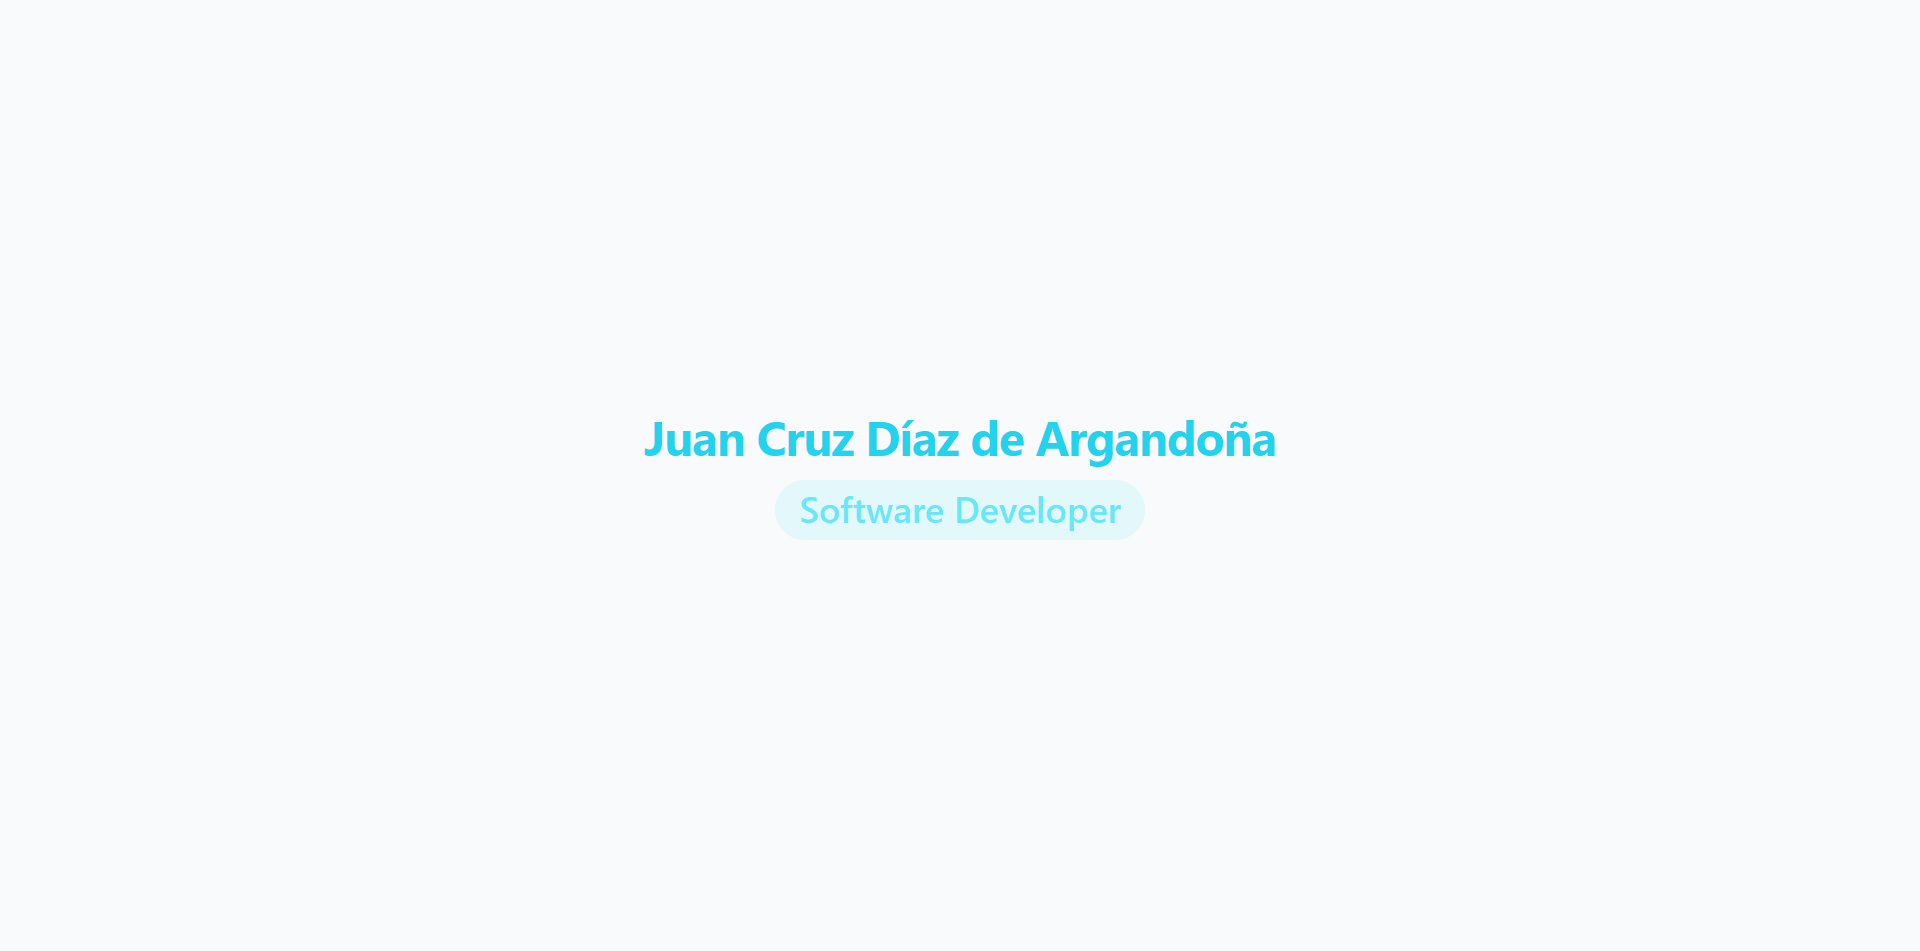
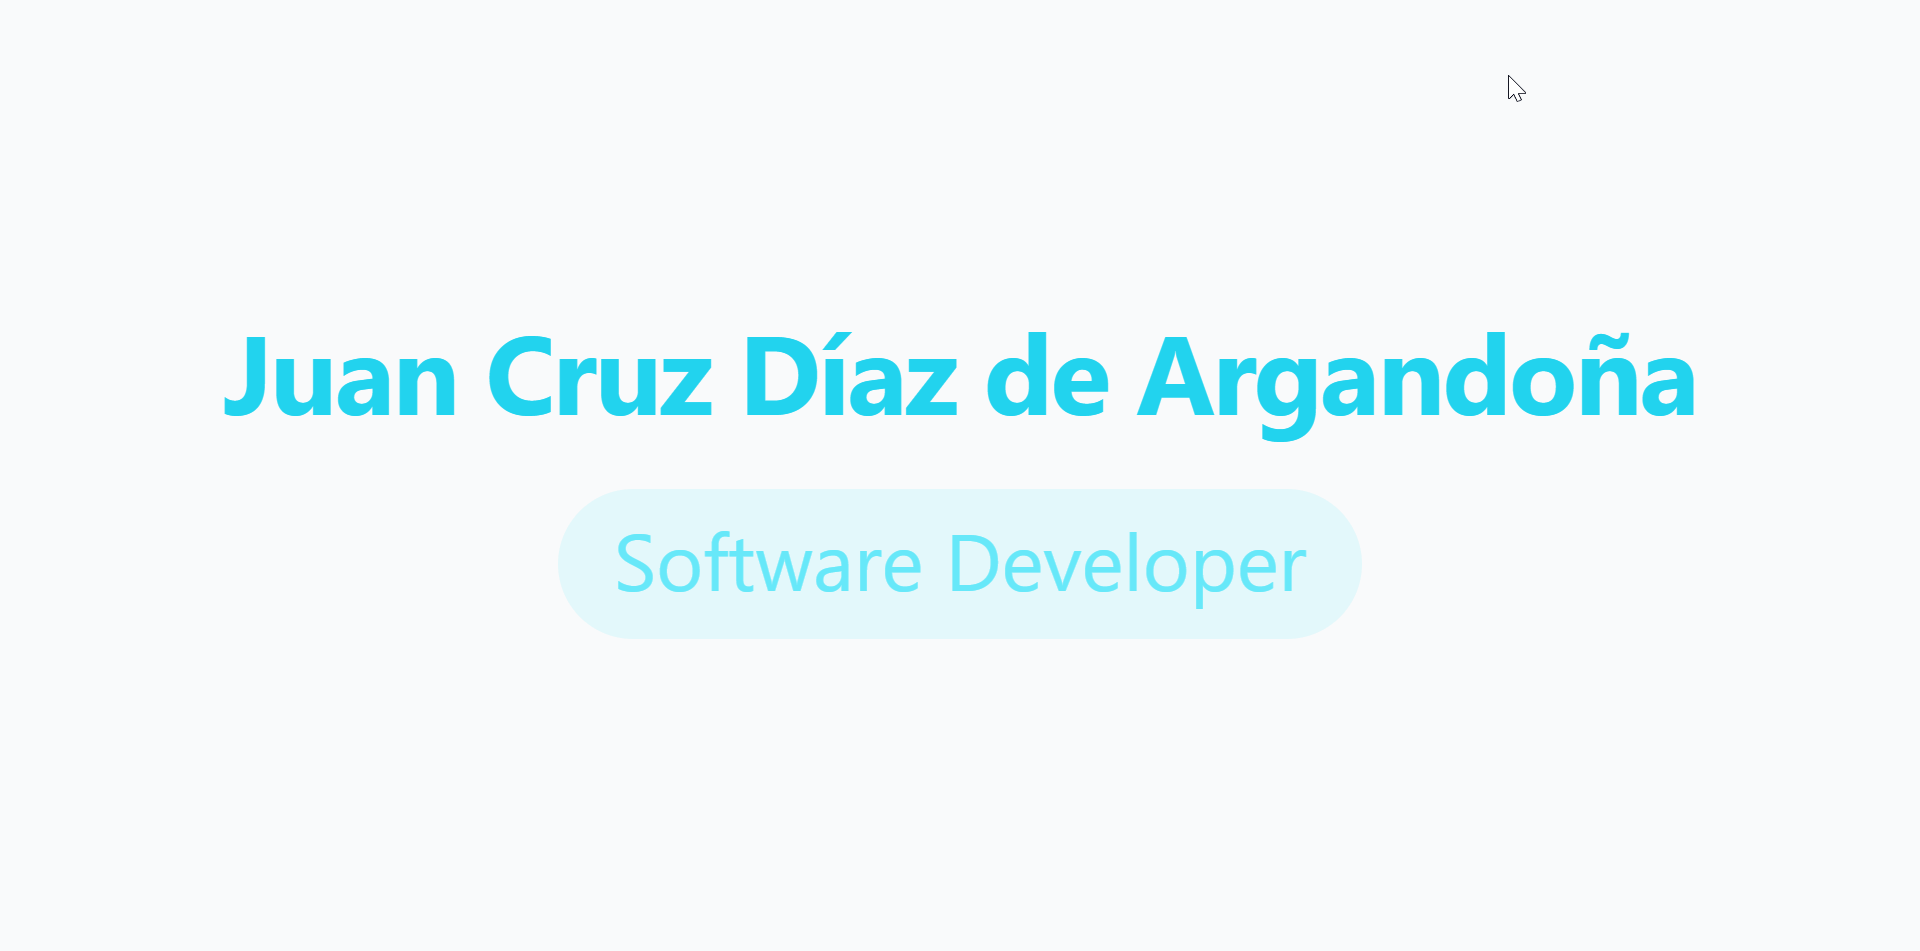
card

Changed region(s): [[0.125, 0.3354, 0.9062, 0.4879], [0.3125, 0.5184, 0.6875, 0.6404]]

diff --git a/src/App.jsx b/src/App.jsx
@@ -3,6 +3,7 @@ import HeaderPage from './Pages/HeaderPage';
 import MainPage from './Pages/MainPage';
 import LoadingPage from './Pages/LoadingPage';
 import { ScrollProvider } from './Hooks/ScrollContext';
+import { text } from '@fortawesome/fontawesome-svg-core';
 
 function App() {
   const [isLoading, setIsLoading] = useState(true);
@@ -34,12 +35,12 @@ function App() {
     </ScrollProvider>
   );
   /*return (
-    <div className='flex flex-col justify-center items-center w-1/2 m-auto min-h-screen gap-5'>
-      <h1 className='text-9xl font-bold tracking-tight sm:text-5xl text-cyan-400'>
+    <div className='flex flex-col justify-center items-center w-4/5 m-auto min-h-screen gap-16'>
+      <h1 className='font-bold tracking-tight sm:text-5xl text-cyan-400' style={{fontSize:'7rem'}}>
         Juan Cruz Díaz de Argandoña
       </h1>
-      <div className='flex items-center rounded-full bg-cyan-300/15 px-3 py-1 text-xs font-medium leading-5 text-cyan-300 '>
-        <span className='text-4xl mt-1 mb-2 mr-3 ml-3'>Software Developer</span>
+      <div className='flex items-center rounded-full bg-cyan-300/15  text-cyan-300 '>
+        <p className='mt-1 mb-4 mr-14 ml-14' style={{fontSize:'5rem'}}>Software Developer</p>
       </div>
     </div>
   )*/
